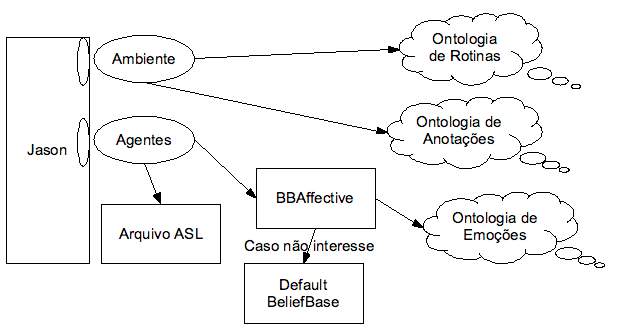
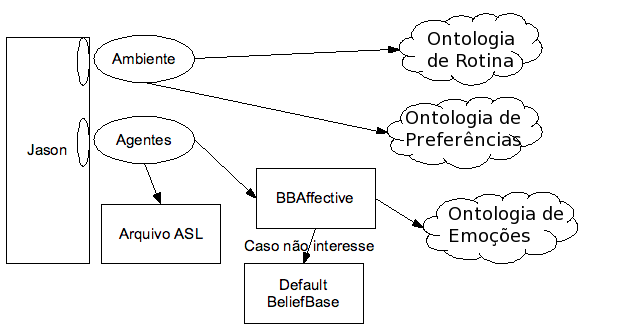
doc: changing reference from annotation ontology to preference ontology samplet: removing commentary

diff --git a/doc/PTBR/proposto.tex b/doc/PTBR/proposto.tex
@@ -3,25 +3,28 @@
 \section{Visão Geral}
 
 A presente arquitetura sendo construída foi pensada conforme mostrado na
-Figura~\ref{fig:vasc}. Como se pode observar, o sistema depende de um ambiente
-desenvolvido pelo usuário que entenderá as ontologias de anotações e de
-rotinas para construir a visualização que será mostrada. Dessa forma, o que o
-usuário vê é exibido conforme descrito na ontologia de rotinas. Mais detalhes
-ver seção~\ref{ch:aec:ocu}. Já a de anotações, explicada na
-seção~\ref{ch:aec:oda} permite guardar junto dos
-objetos do mundo virtual informações e, ainda, criar as preferências dos
-agentes sobre essas informações.
+Figura~\ref{fig:vasc}. Como se pode observar, o sistema é dividido em um
+ambiente e em agentes. O ambiente utiliza as ontologias de preferências e de
+rotinas para construir a visualização que será mostrada no
+capítulo~\ref{ch:cdu}. Dessa forma, o que o usuário vê é exibido conforme
+descrito na ontologia de rotinas. Mais detalhes ver seção~\ref{ch:aec:ocu}. Já
+a de preferências, explicada na seção~\ref{ch:aec:oda}, permite guardar junto
+dos objetos do mundo virtual informações quando as mesmas forem estáticas e
+criar as preferências dos agentes sobre essas informações.\dev{}
+% O dev colocado acima se deve ao fato de a de preferencias ser guardarem
+% informacoes, alem das proprias preferencias.
 
-O agente é a mente de um ator nesse mundo anotado sendo criado e o mundo
-disponibiliza, além da percepção dos objetos, as preferências do agente\dev{}.
-Essa escolha foi feita para permitir que a escolha do que fazer seja toda ela
-escrita em código\dev{} que a plataforma \jason entende. As emoções são
-concluídas pelo agente através de ontologia (ver seção~\ref{ch:aec:omce}) e
-por isso a base de crenças padrão da plataforma que escolhemos foi estendida
-para consultar, guardar e recuperar os dados diretamente nessa ontologia. Caso
-a informação não seja relevante para a mesma, ela é guardada na base de
-crenças padrão. Desse jeito, é como se a base de crenças tivesse dois níveis.
-O primeiro formado pela ontologia e a segunda formada pre-existente.
+A segunda parte do sistema utiliza os agentes. Um agente é a mente de um ator
+que esta agindo nesse mundo anotado. O mundo disponibiliza, além da percepção
+dos objetos, as preferências do agente e suas rotinas\dev{}. Essa escolha foi
+feita para permitir que a escolha do que fazer seja toda ela escrita em
+código\dev{} que a plataforma \jason entende. As emoções são concluídas pelo
+agente através de ontologia (ver seção~\ref{ch:aec:omce}) e, portanto, a base
+de crenças padrão da plataforma foi estendida para consultar, guardar e
+recuperar os dados diretamente nessa ontologia quando a mesma interessa. Caso
+contrário, a informação é guardada na base de crenças padrão. Desse jeito, é
+como se houvesse dois níveis de consulta: o primeiro formado pela ontologia e
+o segundo pela base de crença padrão.
 
 \begin{figure}
   \centering
@@ -300,19 +303,18 @@ Dessa forma, um agente na ontologia do
 modelo \occ pode descobrir seu perfil e descobrir seus locais visitados
 regularmente. O conceito de \emph{Place} pode ser pensado, como veremos
 adiante, como um ``objeto inteligente''.
-%Da mesma forma, o conceito de \emph{Place} faz uso da relação
-%\emph{hasSetup} porque os locais podem ser pensados como ``objetos
-%inteligentes'' dado que possuem horário de abertura e fechamento das
-%atividades.
 
-% eu nao tenho certeza sobre isso, porem seria interessante ter uma relacao
-% hasDimension da Object para Dimension. Dessa forma um objeto teria
-% conhecimento mesmo que abstrato sobre suas dimensões para o caso de ser
-% necessario fazer a bounding box collission...
-\todo{caberia aqui dizer como essa ontologia pode ser usada para se construir
-um ambiente}
+\todo{depois de escrever isso fiquei pensando porque nao levar isso pro caso
+de uso e so finalizar aqui dizendo que explicacoes de utilizacao estao no cap.
+seguinte...}
+Essa ontologia é utilizada no presente trabalho de duas formas. A primeira
+forma de utilização é para desenhar um mapa 2D do ambiente que os agentes
+atuam. Isso é permitido porque o conceito \emph{Place} relaciona-se com o
+\emph{Dimension}. Assim, todos os itens do mapa são retângulos. A outra forma
+de utilização é a que trouxe a ontologia para o trabalho e é definir que um
+agente tenha seus locais usuais descritos.
 
-\section{Ontologia de Anotações} \label{ch:aec:oda}
+\section{Ontologia de Preferências} \label{ch:aec:oda}
 
 \citet{doyle1998annotated} propuseram que o mundo contivesse uma série de
 anotações nos objetos. Assim, o agente poderia conhecer apenas a forma de
@@ -371,21 +373,20 @@ gostam de calor são atraídas pela valoração negativa. Dessa forma, os
 sub-conceitos da preferência representam sempre valores que fazem o agente ser
 atraído pelo objeto e repelido caso contrário.
 
-\todo{como as preferencias sao usadas? como as anotacoes sao usadas?}
+\todo{como as preferencias sao usadas? como as anotacoes sao usadas?} % isso eh bom dizer no caso de uso
 
-\section{Integrando a Plataforma \jason com a Ontologia}
+\section{Integrando a Plataforma \jason com as ontologias}
 
 \begin{table}[b]
 	\caption{As três ontologias juntas possuem expressividade: ALCHIN(D).}
 	\label{tab:tp:cdu:geral}
 	\begin{center}
 	\begin{tabular}{|c|c|}
-	%\begin{tabular}{|p{34mm}|p{50mm}|p{50mm}|}
 		\hline
 		Descrição & Quantidade \\ \hline
 		Classes &  57 		\\ \hline
 		Propriedade de Objetos & 23 \\ \hline
-		Propriedade de Dados & 25 \\ \hline
+		Propriedade de Dados & 26 \\ \hline
 		Indivíduos &  27	\\ \hline
 		Regras & 7 \\ \hline
 	\end{tabular}

diff --git a/doc/PTBR/casoDeUso.tex b/doc/PTBR/casoDeUso.tex
@@ -1,7 +1,7 @@
 \chapter{Caso de Uso} \label{ch:cdu}
 
-\todo{comprometimento. Mostrar aqui um arquivo de projeto jason usando opcoes
-no agente}
+\todo{comprometimento. Mostrar aqui um arquivo de projeto jason usando opcoes no agente}
+\todo{Nao eh ontologia de anotacoes eh ontologia de preferencia usando anotacoes}
 
 na questao da ontologia de comportamento, acredito q seja possivel
 fazer com que um personagem em determinado ciclo vá para um

diff --git a/doc/PTBR/conclusao.tex b/doc/PTBR/conclusao.tex
@@ -1,6 +1,7 @@
 \chapter{Conclusão} \label{ch:cf}
 
-\todo{falar de trabalhos futuros}
+\todo{apos escrever, isso olhar o posicionamento das figuras}
+\todo{falar de trabalhos futuros aqui}
 
 O presente artigo visa apresentar uma visão do trabalho que está sendo feito
 para a construção de um simulador no qual os atores e ambientes interagem.

diff --git a/samplet/src/maro/core/AnnotatedEnvironment.java b/samplet/src/maro/core/AnnotatedEnvironment.java
@@ -4,8 +4,6 @@ import maro.wrapper.OwlApi;
 import java.util.HashMap;
 import java.io.File;
 
-// Annotations moved to Model
-//     Maybe change the name LATER?
 public class AnnotatedEnvironment extends IntelligentEnvironment
 {
 	protected OwlApi oapi;
